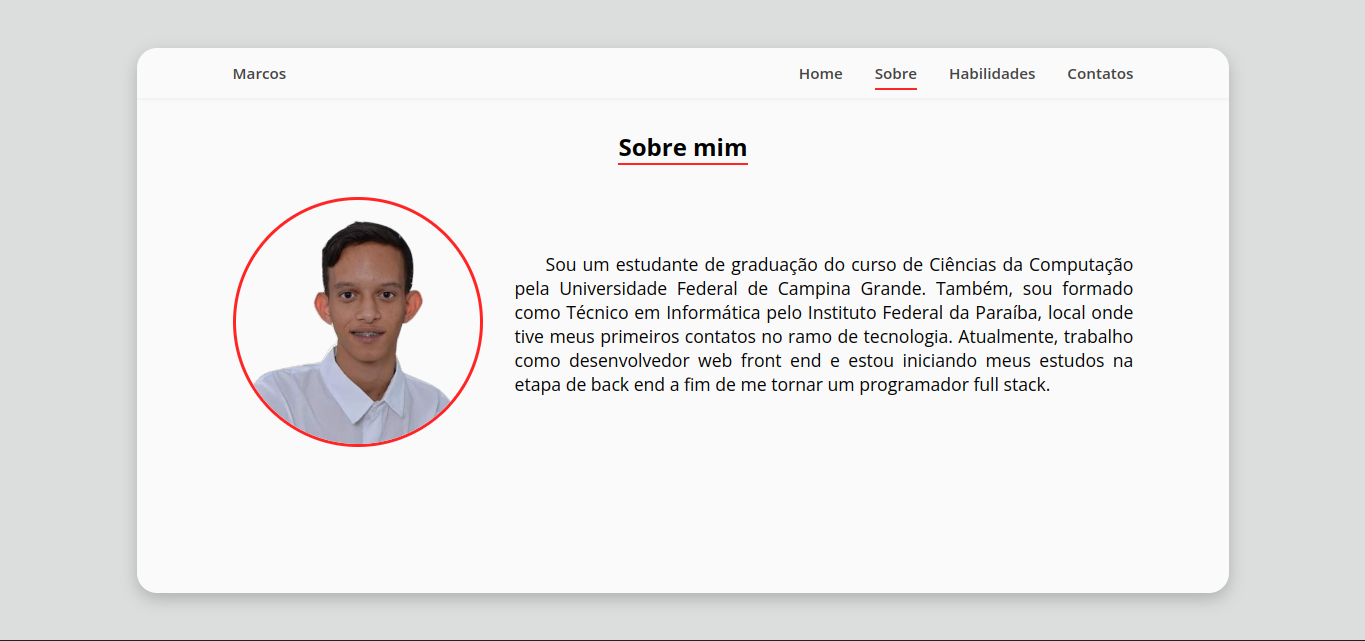
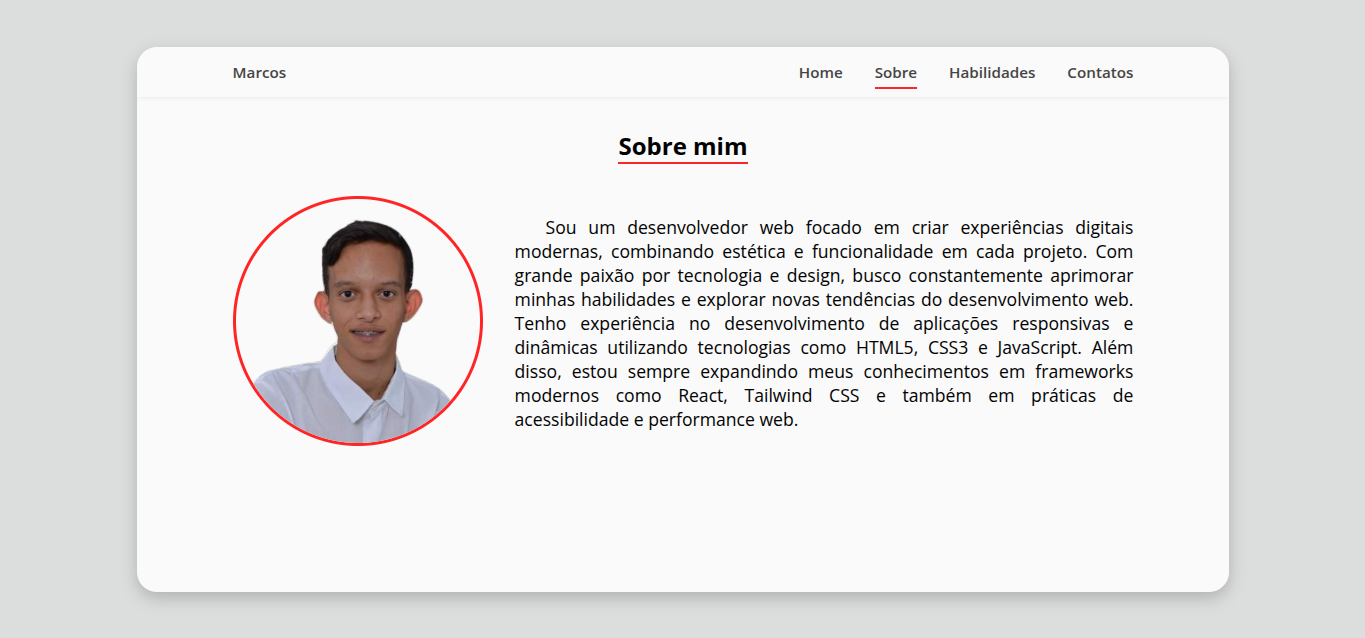
fix: Atualizando seção sobre o usuário e preview correspondente, também renomeando imagens de perfil

diff --git a/index.html b/index.html
@@ -42,17 +42,19 @@
                             <label for="nav-contact" class="contact-button">Contatos</label>
                         </div>
                         <div class="photo-home">
-                            <img class="photo-perfil" src="./assets/perfil.png" alt="">
+                            <img class="photo-perfil" src="./assets/profile-bg-red.png" alt="">
                         </div>
                     </div>
                     <div class="carousel-item carousel-about">
                         <h2 class="title-about">Sobre mim</h2>
                         <div class="about-photo-text">
                             <div class="photo-about">
-                                <img class="photo-perfil2" src="./assets/perfil2.png" alt="">
+                                <img class="photo-perfil2" src="./assets/profile-no-bg.png" alt="">
                             </div>
                             <p class="about-text-content">
-                                Sou um estudante de graduação do curso de Ciências da Computação pela Universidade Federal de Campina Grande. Também, sou formado como Técnico em Informática pelo Instituto Federal da Paraíba, local onde tive meus primeiros contatos no ramo de tecnologia. Atualmente, trabalho como desenvolvedor web front end e estou iniciando meus estudos na etapa de back end a fim de me tornar um programador full stack.
+                                Sou um desenvolvedor web focado em criar experiências digitais modernas, combinando estética e funcionalidade em cada projeto.
+                                Com grande paixão por tecnologia e design, busco constantemente aprimorar minhas habilidades e explorar novas tendências do desenvolvimento web.
+                                Tenho experiência no desenvolvimento de aplicações responsivas e dinâmicas utilizando tecnologias como HTML5, CSS3 e JavaScript. Além disso, estou sempre expandindo meus conhecimentos em frameworks modernos como React, Tailwind CSS e também em práticas de acessibilidade e performance web.
                             </p>
                         </div>
                     </div>
